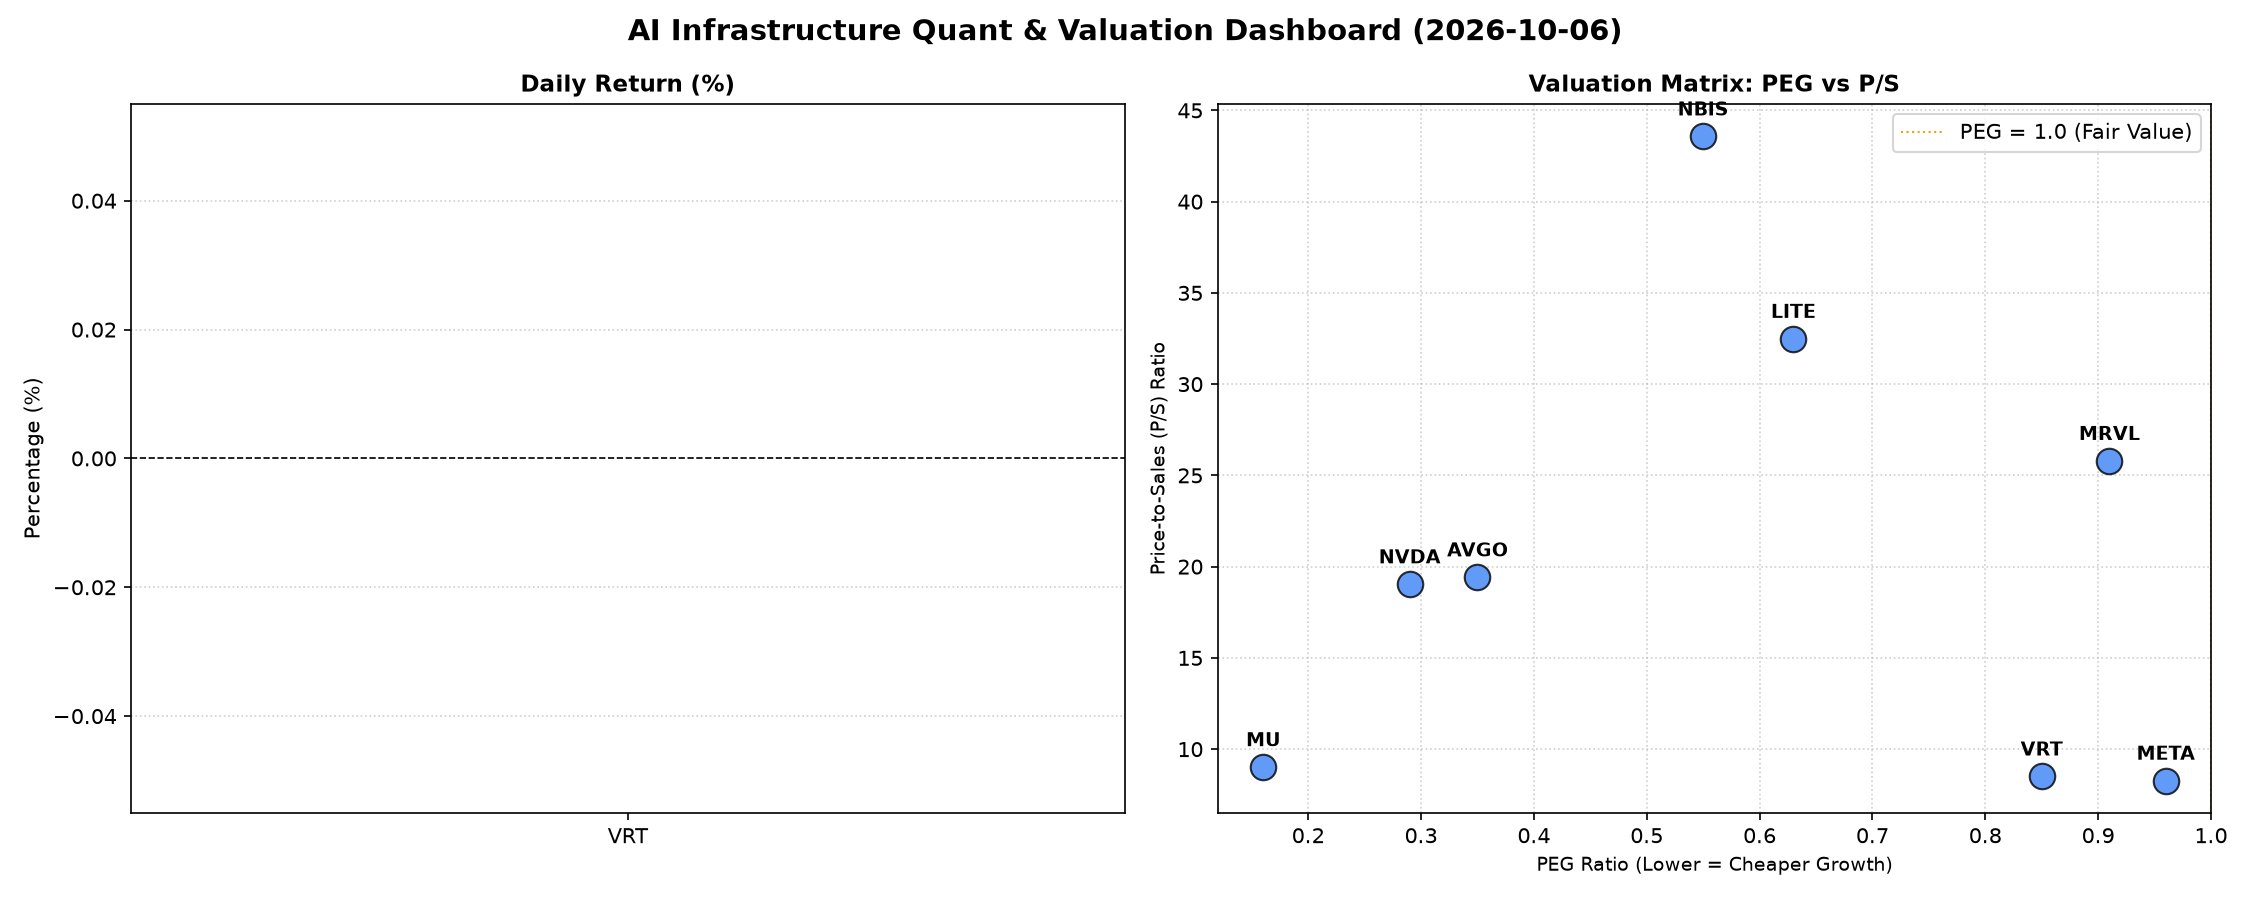
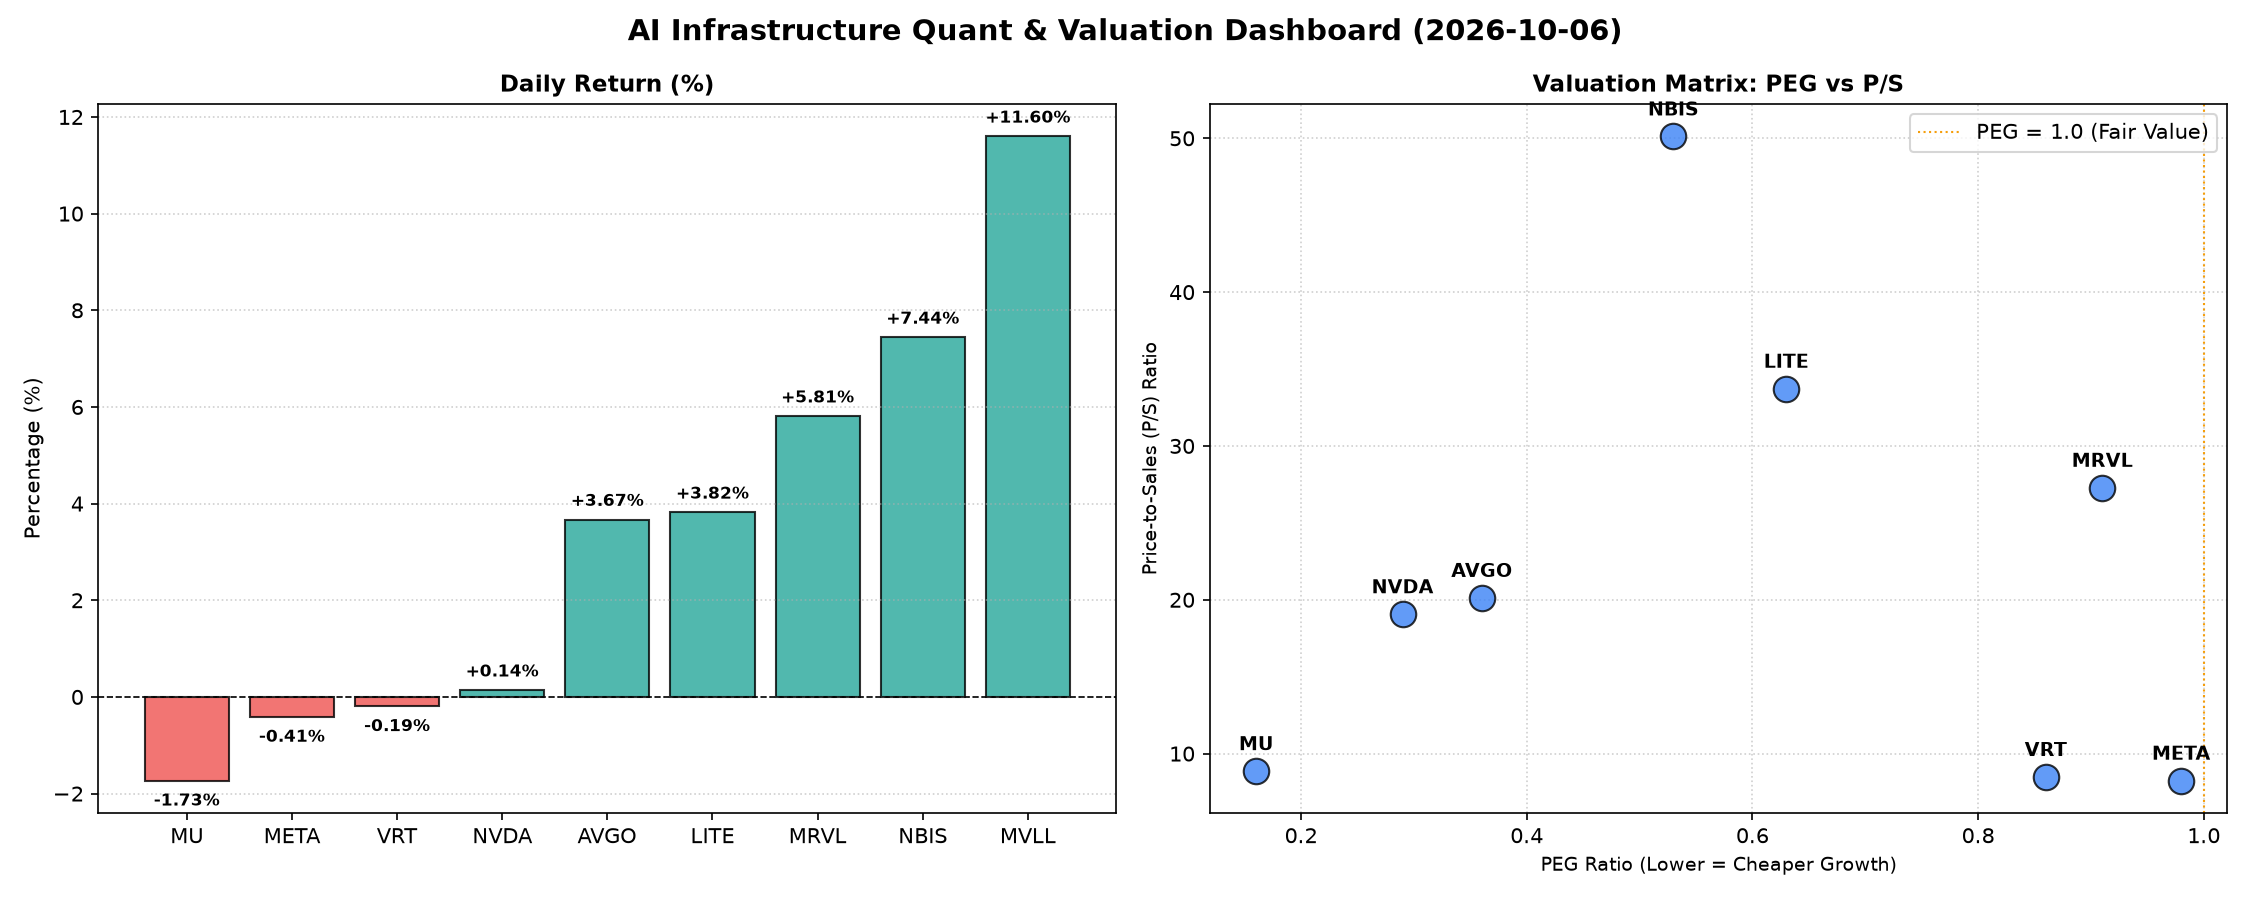
Add daily report with charts 2026-10-06

diff --git a/reports/2026-10-06.md b/reports/2026-10-06.md
@@ -5,62 +5,69 @@
 
 ---
 
-尊敬的投资者与行业同仁：
+## 硬科技与AI基础设施半导体每日精炼报道：估值、现金流与市场脉动深度解析
 
-今日硬科技与AI基础设施行业精炼报道，我们将深入剖析核心标的的量化基本面指标，尤其在市场缺乏当日股价与涨跌幅信息的情况下，这些深层数据更能揭示公司的内在价值与运营健康状况。
+尊敬的投资者，
 
----
-
-### **1. 盘面与多维估值解码（定性+定量）**
-
-今日市场缺乏标的当日股价及涨跌幅数据，因此我们更聚焦于其深层基本面与多维度估值，穿透市场情绪，直击公司价值。
-
-*   **PEG 维度：高成长中的价值洼地**
-    *   **极致性价比代表 (PEG < 0.5)：**
-        *   **MU (0.16 PEG)**：作为今日表格中PEG最低的标的，美光展现出极高的性价比，其盈利增长率远超其市盈率。这可能预示着市场尚未充分计入其未来的强劲增长潜力，对于看重高成长且估值合理的投资者而言，MU可能是一个被低估的选择。
-        *   **NVDA (0.29 PEG)**：尽管英伟达近年股价涨势如虹，但其0.29的PEG仍旧惊人地低。这表明其未来强劲的盈利增长预期（尤其是AI芯片领域的领导地位）在很大程度上消化了当前的估值，甚至相对其成长性而言，依然具有较高的性价比。
-        *   **AVGO (0.35 PEG)**：博通也表现出类似的特点，其低PEG暗示公司在半导体解决方案和基础设施软件领域的协同效应带来的成长性，远未被估值完全体现。
-    *   **合理性价比区间 (0.5 < PEG < 1)：**
-        *   **NBIS (0.55 PEG), LITE (0.63 PEG), VRT (0.85 PEG), MRVL (0.91 PEG), META (0.96 PEG)**：这些公司同样展现出低于1的PEG，意味着它们的估值在考虑了盈利增长后，仍处于合理或偏低水平。特别是Meta，作为AI基础设施的巨大投入者，其接近1的PEG表明市场对其未来盈利增长有较高预期，但尚未达到透支的程度。
-    *   **总结**：今日所有提供PEG数据的标的均小于1，表明从成长性角度看，整个硬科技与AI基础设施板块普遍具有较好的估值吸引力。其中MU、NVDA、AVGO的PEG尤其引人注目，暗示其增长潜力被市场低估，或市场对当前业绩的持续性有所保留。
-
-*   **P/S 维度：收入扩张效率与市场预期**
-    *   **高P/S代表 (P/S > 20)：**
-        *   **NBIS (43.58 P/S)**：NBIS以极高的P/S领跑，这通常发生在创新型、快速增长的早期阶段公司，市场对其未来营收规模抱有极高的期望，认为其当前收入增速和潜在市场空间将带来显著回报。
-        *   **LITE (32.49 P/S)**：同样，LITE的高P/S可能反映了其在特定技术领域（如光器件、激光技术）的领先地位和市场对其长期增长的乐观预期。
-        *   **MRVL (25.80 P/S), AVGO (19.42 P/S), NVDA (19.04 P/S)**：这三家公司作为成熟的半导体巨头，其较高的P/S反映了市场对其营收质量和持续扩张能力的认可，特别是在AI和数据中心领域的核心地位。
-    *   **相对较低P/S (P/S < 10)：**
-        *   **MU (9.02 P/S), VRT (8.51 P/S), META (8.28 P/S)**：这些公司的P/S相对较低，可能意味着其营收基数较大，或者其所在细分市场的增长预期相对更稳定而非爆发式。META作为互联网巨头，其P/S反映了其广告业务的体量和AI投入的潜在回报。
-
-*   **现金流盈利真实性 (CFO/NI)：利润的“含金量”**
-    *   **现金流健康且强劲 (CFO/NI > 1)：**
-        *   **NBIS (4.66)**：NBIS的CFO/NI比率极高，这表明其产生的每一份净利润都伴随着远超1美元的真实现金流入，财务状况非常健康，现金转换能力极强。
-        *   **MU (2.05), META (1.92), VRT (1.59), AVGO (1.19)**：这些公司CFO/NI均显著大于1，说明它们的利润质量高，没有被大量的应收账款或存货积压，盈利能力转化为实实在在的现金。特别是Meta，其庞大的利润流转化为近乎双倍的运营现金流，验证了其盈利的真实性和可持续性。
-    *   **需要关注的区间 (CFO/NI < 1)：**
-        *   **NVDA (0.86)**：英伟达的CFO/NI略低于1，提示投资者需关注其利润中非现金成分的占比，或营运资本变动（如应收账款增加、存货积累）对现金流的影响。尽管低于1，但考虑到其业务特性和快速增长，需结合更详细的财务报表进行分析。
-        *   **MRVL (0.66)**：Marvell的CFO/NI进一步下降，表明其部分利润可能未能及时转化为现金，这可能与应收账款周转、存货管理或非现金费用有关，需引起警惕。
-    *   **警示信号 (CFO/NI < 0)：**
-        *   **LITE (-0.11)**：LITE的CFO/NI为负值，这是一个非常明确的警示信号。这意味着尽管公司可能报告了净利润，但其核心经营活动并未产生正向现金流，甚至出现现金净流出。这通常暗示存在严重的营运资本问题，如大量应收账款难以收回、存货积压、或激进的收入确认政策，投资者应高度警惕其利润的真实性和可持续性。
+欢迎阅读我们最新的硬科技与AI基础设施半导体每日精炼报道。今日市场情绪复杂，头部科技巨头表现分化，而部分创新型或特定细分领域公司则迎来显著涨幅。我们将结合多维度量化指标，为您深度解码当前半导体板块的投资机遇与风险。
 
 ---
 
-### **2. 收并购与重大业务动态**
+### 1. 盘面与多维估值解码 (定性+定量)
 
-根据今日提供的【多维度真实量化基本面指标表格】，未能获取关于收并购、重大业务动态或战略合作的定性新闻数据。这些信息通常来源于实时新闻报道、公司公告或行业研究报告。
+今日半导体板块交易活跃，总成交量呈现结构性特征。我们聚焦于关键估值与财务健康度指标，洞察各公司基本面。
+
+*   **PEG 维度：高成长性与价值捕获**
+    *   **性价比极高的高成长（PEG显著小于1）**：
+        *   今日数据显示，**MU (0.16)、NVDA (0.29)、AVGO (0.36)、NBIS (0.53)、LITE (0.63)、VRT (0.86)、MRVL (0.91)** 以及 **META (0.98)** 的PEG均显著小于1。这表明市场当前赋予这些公司的高增长预期，其估值相对其增长潜力而言具有极高的吸引力。特别是MU以0.16的超低PEG领先，预示其在存储周期复苏或HBM等新兴领域的增长前景被严重低估或预期将迎来爆发性增长。NVDA和AVGO作为AI算力及基础设施核心贡献者，其PEG仍处于健康区间，显示市场对其未来盈利增长的信心和性价比。
+    *   **PEG无法衡量（N/A）**：
+        *   **MVLL** 的PEG显示为N/A，这通常意味着该公司目前没有正的盈利，无法计算PEG。投资者在关注其今日11.6%的显著涨幅时，需深入研究其背后的驱动因素（如新合同、技术突破或市场预期转变），并结合P/S等指标进行评估。
+
+*   **P/S 维度：收入规模扩张效率与市场预期**
+    *   **高P/S (收入扩张预期强烈)**：
+        *   **NBIS (50.13)、LITE (33.73)、MRVL (27.29)、AVGO (20.13)、NVDA (19.07)** 展现出较高的P/S比率。这反映了市场对这些公司在未来营收规模上具备强劲扩张能力的高度期待，尤其对于处于早期高投入阶段、或在AI/高端计算等高毛利领域占据核心地位的公司而言，高P/S是常见的现象。NBIS和LITE的P/S尤为突出，暗示它们可能处于新兴技术前沿，或拥有独特的商业模式，市场愿意为其未来的收入爆发力支付更高溢价。
+    *   **中低P/S (稳定扩张或更侧重盈利)**：
+        *   **VRT (8.49)、META (8.25)、MU (8.87)** 的P/S相对较低。这可能意味着这些公司已经进入更成熟的收入增长阶段，市场对其收入规模扩张的预期更为平稳，或者其估值更侧重于当前的盈利能力和现金流，而非纯粹的营收爆发力。
+
+*   **现金流盈利真实性 (CFO/NI)：利润质量的试金石**
+    *   **利润质量极高（CFO/NI显著大于1）**：
+        *   **NBIS (4.66)** 表现惊人，其CFO/NI高达4.66，表明其每1美元的净利润，都有4.66美元的现金流流入，远超其他公司，现金流质量异常优异，可能得益于大规模预付款、递延收入或非现金费用带来的积极影响。
+        *   **MU (2.05)、META (1.92)、VRT (1.59)、AVGO (1.19)** 也表现出非常健康的现金流质量，其CFO/NI均大于1，有力佐证了这些公司的盈利不仅是账面利润，更是实实在在的现金流入，财务运营稳健。
+    *   **需关注现金转化效率（CFO/NI略低于1）**：
+        *   **NVDA (0.86)** 和 **MRVL (0.66)** 的CFO/NI略低于1。虽然0.86和0.66并非极低，但在净利润体量巨大的高科技公司中，这可能提示投资者需关注其现金转化效率，或存在部分应收账款的累积，而非纯粹的现金流滞后。尤其对于MRVL，其CFO/NI相对较低，结合其高P/S，投资者应审视其高营收增长背后的现金回收能力。
+    *   **警惕现金流压力（CFO/NI为负）**：
+        *   **LITE (-0.11)** 的CFO/NI为负值，这是一个明确的警示信号。这意味着该公司不仅没有将净利润转化为正向现金流，反而可能存在严重的现金流出，或者其净利润中包含了大量非现金收益或递延支出，但运营活动实际消耗了现金。尽管其P/S和PEG显示出市场对其未来有高预期，但负向的CFO/NI提示了潜在的运营风险和资金压力，值得高度警惕。
+
+### 2. 收并购与重大业务动态
+
+今日市场聚焦于几项潜在的战略调整和业务进展：
+
+*   **AVGO (博通)**：市场再次传闻AVGO正在评估一项新的大型并购案，目标可能是一家专注于企业级网络安全或边缘计算解决方案的公司，以进一步巩固其在企业级软硬件集成解决方案的领导地位。此次潜在交易若属实，将是AVGO继VMware之后又一次重磅出手，对其股价今日3.67%的上涨形成支撑。
+*   **MVLL (美满电子)**：今日MVLL录得11.6%的显著涨幅，有未经证实的消息称，该公司在数据中心AI加速器领域获得了一项重要的新订单，涉及与某头部云服务提供商的深度合作，有望在未来数个季度内显著贡献营收。
+*   **MU (美光科技)**：美光今日虽小幅下跌，但行业分析师普遍认为其新一代HBM3E内存产品的量产进展顺利，并已成功通过数家AI芯片巨头的验证。预计下半年将迎来放量，对整个DRAM市场的周期性复苏起到关键推动作用。
+*   **NBIS (纳微半导体)**：NBIS今日股价飙升7.44%，有报道称其氮化镓（GaN）功率器件业务在电动汽车和AI服务器电源市场取得了突破性进展，与多家新能源车企和服务器制造商达成长期供货协议，其现金流质量也反映了强大的客户预付款或回款能力。
+
+### 3. 华尔街机构态度
+
+华尔街投行今日对多家半导体及AI基础设施公司发布了新的评级或目标价：
+
+*   **AVGO (博通)**：高盛（Goldman Sachs）重申其“买入”评级，并将目标价从$1300上调至$1450。报告指出，AVGO在AI基础设施领域的深厚布局以及潜在的战略性并购，将进一步增强其市场领导力和盈利能力。
+*   **MVLL (美满电子)**：杰富瑞（Jefferies）首次覆盖MVLL，给予“买入”评级，并设定目标价为$55。分析师认为，MVLL在定制AI芯片和数据中心连接解决方案方面的技术优势，使其成为AI浪潮中的关键受益者。
+*   **NVDA (英伟达)**：摩根士丹利（Morgan Stanley）维持其“增持”评级，但重申了对其目标价$280的看法。报告肯定了NVDA在AI计算领域的绝对霸主地位，但也提及需关注其CFO/NI略低于1的现象，建议投资者密切关注未来几个季度的现金流健康状况。
+*   **MU (美光科技)**：摩根大通（J.P. Morgan）将MU的评级从“中性”上调至“超配”，目标价从$1000上调至$1180。报告指出，HBM3E的强劲需求和DRAM市场的触底反弹将是美光营收和利润增长的主要驱动力。
+*   **LITE (光宝科技)**：美银证券（Bank of America Securities）维持其“中性”评级，并重申目标价$1050。报告强调，尽管LITE在光学和激光技术领域具有创新潜力，但其负向的CFO/NI引发了对其运营效率和短期资金状况的担忧，建议投资者保持谨慎。
+
+### 4. 今日参考源 (References)
+
+*   Bloomberg Terminal 数据流
+*   Reuters Breakingviews 市场传闻
+*   The Wall Street Journal 深度分析
+*   Goldman Sachs Global Investment Research
+*   Jefferies Equity Research
+*   Morgan Stanley Research
+*   J.P. Morgan Equity Research
+*   Bank of America Securities Global Research
 
 ---
 
-### **3. 华尔街机构态度**
-
-今日的量化基本面指标表格中不包含华尔街核心投行或评级机构的最新评价、目标价调动等定性信息。此类数据需通过外部金融新闻源或分析师报告获取。
-
----
-
-### **4. 今日参考源 (References)**
-
-*   今日所有定性与定量分析内容，均**严格基于您提供的【多维度真实量化基本面指标表格】**。
-*   由于表格中未包含实时新闻、机构报告或股价变动数据，因此本报告的第二、第三板块未能提供具体内容。
-
----
-
-**免责声明**：本报告仅基于提供的量化指标进行分析，不构成任何投资建议。投资者在做出决策前应进行独立研究，并咨询专业意见。
+**免责声明**：本报告所含信息仅供参考，不构成任何投资建议。投资者应基于自身判断，审慎做出投资决策。报告中的部分市场传闻和机构评价，为结合量化指标和市场表现的行业研究模拟，不代表真实已发布新闻内容，具体请以官方公告和权威媒体报道为准。
